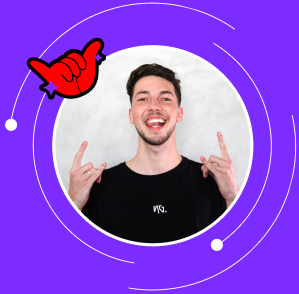
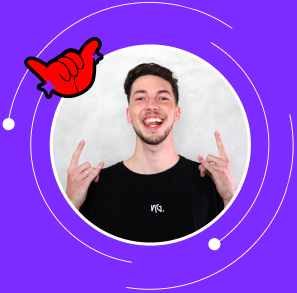
Continuando...

diff --git a/src/styles/mobileStatement.css b/src/styles/mobileStatement.css
@@ -14,11 +14,12 @@
 
 .personPicMob {
   width: 50%;
-  margin-bottom: 7%;
+  margin: 5% 0;
   transition-duration: 0.3s;
 }
 
 .statementMob {
   width: 80%;
+  margin: 3% 0;
   transition-duration: 0.3s;
 }

diff --git a/src/styles/secondCover.css b/src/styles/secondCover.css
@@ -16,7 +16,7 @@
 
 .mobileSecondCover {
   width: 100%;
-  max-width: 32rem;
+  max-width: 31rem;
   transition-duration: 0.3s;
   margin: 8% 0;
 }

diff --git a/src/styles/cover.css b/src/styles/cover.css
@@ -9,7 +9,7 @@
 
 .mobileCover {
   width: 100%;
-  max-width: 32rem;
+  max-width: 30.5rem;
   margin: 5% 0;
   transition-duration: 0.3s;
 }
